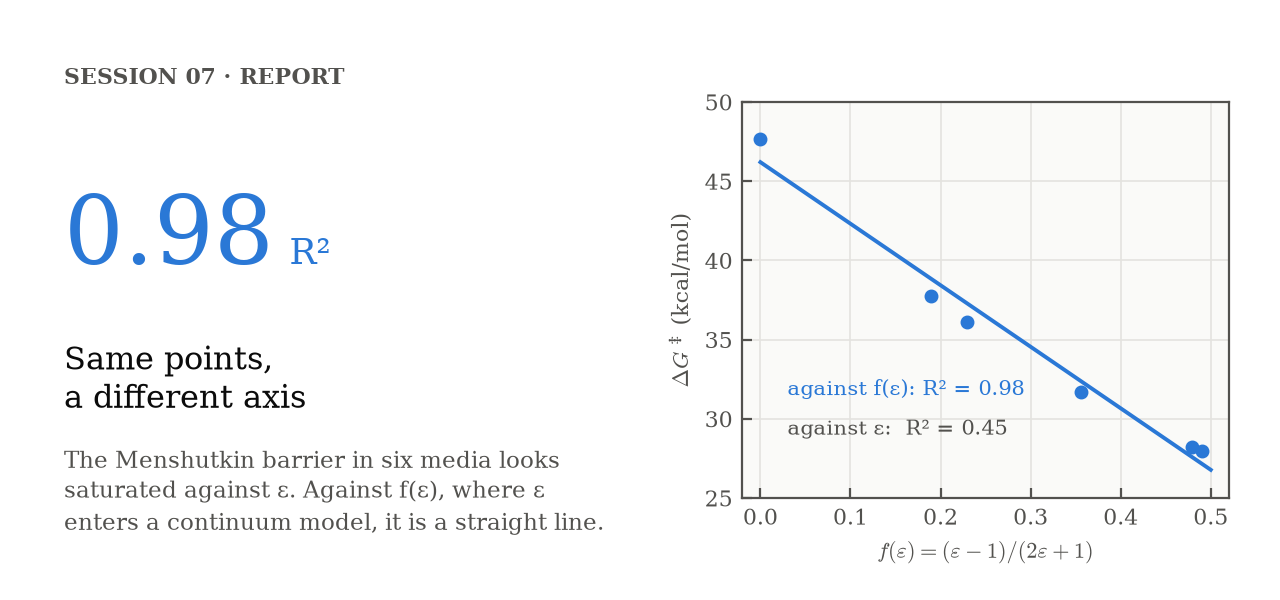
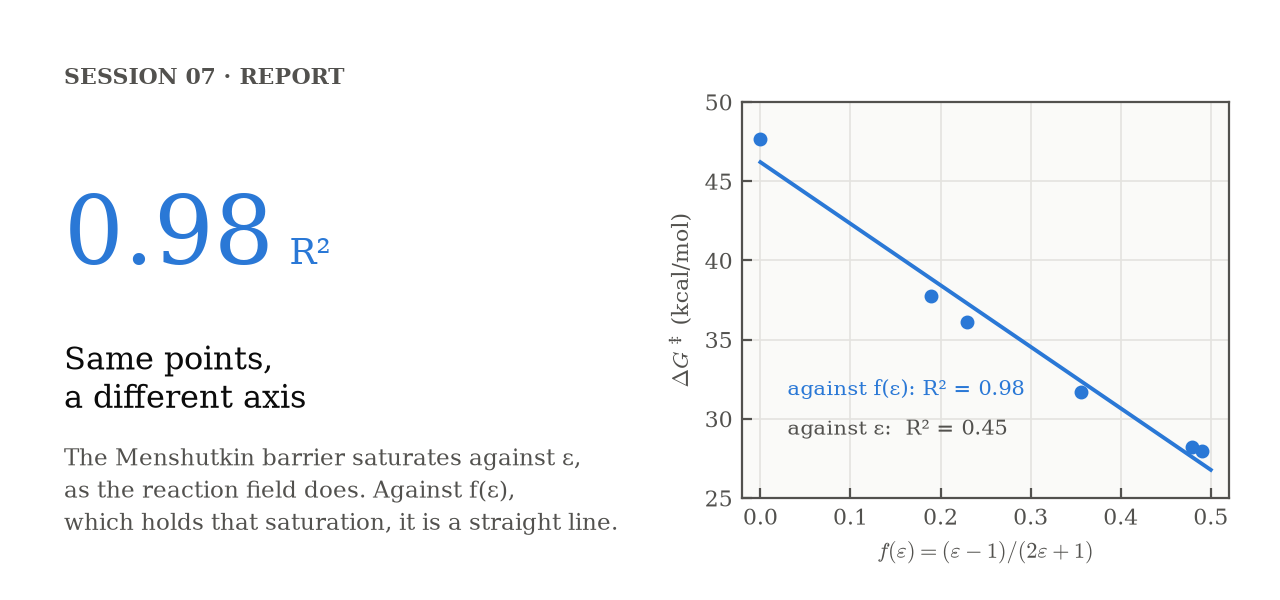
Session 07: the saturation is real, and the gas-phase point explained
Two comments from the professor on the submitted Session 07 report.

- Saturation. The text said that the saturation of solvent effects
  against epsilon was "apparent", "a property of the axis, not of the
  chemistry". The saturation is real: going from acetonitrile to water
  barely changes the barrier. What the analysis shows is where it
  lives: in the dielectric response, f(eps) -> 1/2, not in the solute,
  which responds linearly to the reaction field. Reworded in the Ex. 8
  conclusions, the session README, the Session 07 row of the main
  README and the caption of card_axis.
- The point of another colour. The caption of the report figure did
  not say that the square is the gas phase, left out of the solid fit
  of the five solvents (the dashed line includes it). Explained in the
  figure caption of the Ex. 8 README.

The submitted PDF is kept as it was; the extended report is updated
by the author in Overleaf.

Supervised-by: Claude Opus 5.5 <noreply@anthropic.com>

Changed region(s): [[0.0312, 0.75, 0.4688, 0.9]]

diff --git a/docs/make_cards.py b/docs/make_cards.py
@@ -311,7 +311,7 @@ def card_axis():
         ax.set_ylabel(r"$\Delta G^\ddagger$ (kcal/mol)", fontsize=8)
 
     card(f"{r2(f, barrier):.2f}", "R²", "Same points,\na different axis",
-         "The Menshutkin barrier in six media looks\nsaturated against ε. Against f(ε), where ε\nenters a continuum model, it is a straight line.",
+         "The Menshutkin barrier saturates against ε,\nas the reaction field does. Against f(ε),\nwhich holds that saturation, it is a straight line.",
          "SESSION 07 · REPORT", draw, "card_axis.png")
 
 

diff --git a/README.md b/README.md
@@ -65,7 +65,7 @@ Every pattern is shown on the real Gaussian output it reads, and ends with links
 | 03 | [**Geometries, frequencies and conformers**](sessions/03-geometries-and-conformers/) | HF, B3LYP · STO-3G → 6-311G* · Gaussian 09 | Optimised geometries against experiment, matching the Session 02 scans to 0.001 Å. Normal modes read from the displacement vectors. What B3LYP fixes over HF. Then three conformational problems: the gauche population of 1,2-dichloroethane ([case study and report](sessions/03-geometries-and-conformers/report/)), the anomeric effect in fluoromethanol, and glycine, where imposed symmetry hid two saddle points |
 | 04 | [**An SN2 reaction**](sessions/04-sn2-reaction/) | HF/6-31+G* · Gaussian 09 | F⁻ + CH₃Cl → CH₃F + Cl⁻, one stationary point at a time. Diffuse functions for the anions, frequencies even for single atoms, and ion-dipole complexes where the bond is already 28 % softer in frequency before the reaction starts. A potential energy surface of 99 points, and its pass optimised into the transition state of a double well, 11.5 kcal/mol below the reactants. Then the same reaction in water, where the double well becomes a barrier of 20.9 kcal/mol ([case study and report](sessions/04-sn2-reaction/report/)). A first transition state on HCN → CNH. The IRC comes next *(in progress)* |
 | 05–06 | [**Excited states**](sessions/05-06-excited-states/) | CIS, ZINDO, TD-B3LYP · 3-21G → 6-311++G** · Gaussian 09 | Semiempirical and post-HF methods meet UV–Vis spectra. CIS converges with the basis set to bands 40 nm short of experiment, because what it lacks is correlation; TD-B3LYP cuts the error to 7–15 nm and ZINDO, fitted to spectra, does best on the two shorter molecules ([case study and report](sessions/05-06-excited-states/report/)) |
-| 07 | [**Solvent effects**](sessions/07-solvent-effects/) | HF · PCM, SMD · Gaussian 09 | The gas phase is left behind. In water, 1,2-dichloroethane turns from 8 % to 58 % gauche, and the SN2 barrier from the complex rises from 3 to 17 kcal/mol. The Menshutkin reaction in six media shows that solvent effects only look saturated against ε: against the Onsager function f(ε) every quantity is a straight line ([case study and report](sessions/07-solvent-effects/report/)). Along the way, a symmetry number that Gaussian can miss and the 0.65 kcal/mol it costs *(in progress)* |
+| 07 | [**Solvent effects**](sessions/07-solvent-effects/) | HF · PCM, SMD · Gaussian 09 | The gas phase is left behind. In water, 1,2-dichloroethane turns from 8 % to 58 % gauche, and the SN2 barrier from the complex rises from 3 to 17 kcal/mol. The Menshutkin reaction in six media shows that solvent effects saturate against ε because the reaction field does, through the Onsager function f(ε): against f(ε) every quantity is a straight line ([case study and report](sessions/07-solvent-effects/report/)). Along the way, a symmetry number that Gaussian can miss and the 0.65 kcal/mol it costs *(in progress)* |
 | 08 | [**Molecular dynamics**](sessions/08-molecular-dynamics/) | Classical MD · AMBER, CHARMM · NAMD, VMD | From one structure to an ensemble: water, a sodium ion and the protein ubiquitin, 100 ps each. The temperature of water fluctuates exactly as the canonical ensemble predicts from its 9999 degrees of freedom, and its energy fluctuation gives a heat capacity 50 % too high, because a water meant to be rigid runs as three classical springs. TIP3P gets the hydrogen bond but not the tetrahedral second shell; Na⁺ holds 5.8 waters at 2.38 Å, as X-ray diffraction finds *(in progress)* |
 
 More sessions will be added as the course goes on.

diff --git a/sessions/07-solvent-effects/ex8-menshutkin/README.md b/sessions/07-solvent-effects/ex8-menshutkin/README.md
@@ -60,7 +60,7 @@ Barriers and reaction free energies are measured from the separated reactants, N
 
 ![Barrier against epsilon and against f(epsilon), distances and reaction free energy](../report/figure.png)
 
-*(a) The barrier against ε: a straight line fails, R² = 0.45; the curve is the model of (b) mapped back onto this axis. (b) The same barriers against f(ε). (c) The transition state distances and (d) the reaction free energy against f(ε).*
+*(a) The barrier against ε: a straight line fails, R² = 0.45; the curve is the model of (b) mapped back onto this axis. (b) The same barriers against f(ε): the solid line fits the five solvents; the square is the gas phase, left out of that fit (see the predictive model below); dashed, the fit including it. (c) The transition state distances and (d) the reaction free energy against f(ε).*
 
 **Not one quantity correlates with ε; all of them are straight lines against f(ε).** The points and the calculations are the same; only the axis changes.
 
@@ -107,7 +107,7 @@ Since the response to a reaction field scales with μ² (Onsager), a transition 
 
 ## Conclusions
 
-1. **Correlated against ε, as requested, none of the six quantities is linear** (0.45 ≤ R² ≤ 0.58). Against f(ε) = (ε − 1)/(2ε + 1), all of them are (0.977 ≤ R² ≤ 0.9998). The apparent saturation of solvent effects is a property of the axis, not of the chemistry.
+1. **Correlated against ε, as requested, none of the six quantities is linear** (0.45 ≤ R² ≤ 0.58). Against f(ε) = (ε − 1)/(2ε + 1), all of them are (0.977 ≤ R² ≤ 0.9998). The saturation against ε is real, but it belongs to the dielectric response, f(ε) → 1/2, not to the solute: against the reaction field every quantity responds linearly.
 2. **The line predicts the barrier of a solvent left out of the fit within 1.5 kcal/mol,** but should not be extrapolated to the gas phase.
 3. **The correlations the exercise asks for are one correlation,** and only their slopes carry independent information.
 4. **The slopes are chemically sensible.** The solvent swings the reaction free energy by 129 kcal/mol, turns the reaction exergonic above ε ≈ 8, and moves the transition state earlier (Leffler α = 0.15), which leaves it less polarised in water than in vacuum.

diff --git a/sessions/07-solvent-effects/README.md b/sessions/07-solvent-effects/README.md
@@ -71,7 +71,7 @@ The other exercises of the session will be added as they are done.
 | against ε | 0.510 | 0.527 | 0.576 | 0.549 | 0.447 | 0.464 |
 | against f(ε) | 0.995 | 0.998 | 0.999 | 1.000 | 0.977 | 0.983 |
 
-- **The effect does not saturate; the axis does.** ε never appears alone in the theory of a continuum model, only inside f(ε), which compresses the polar end: acetonitrile and water differ by 43 in ε and by 0.011 in f(ε).
+- **The saturation is real, and it belongs to the dielectric.** ε never appears alone in the theory of a continuum model, only inside f(ε), which tends to 1/2 and compresses the polar end: acetonitrile and water differ by 43 in ε and by 0.011 in f(ε). Against f(ε), where the saturation already is, the solute responds linearly.
 - **A predictive line:** ΔG‡ = −32.2 f(ε) + 43.6 kcal/mol, within 1.5 kcal/mol for a solvent left out of the fit.
 - **A transition state less polarised in water than in vacuum.** The solvent swings the reaction free energy by 129 kcal/mol, and Hammond's postulate moves the transition state earlier (Leffler α = 0.15).
 - **One variable, five correlations.** In a continuum model f(ε) is the only knob, so the correlations are not independent: only their slopes inform.
